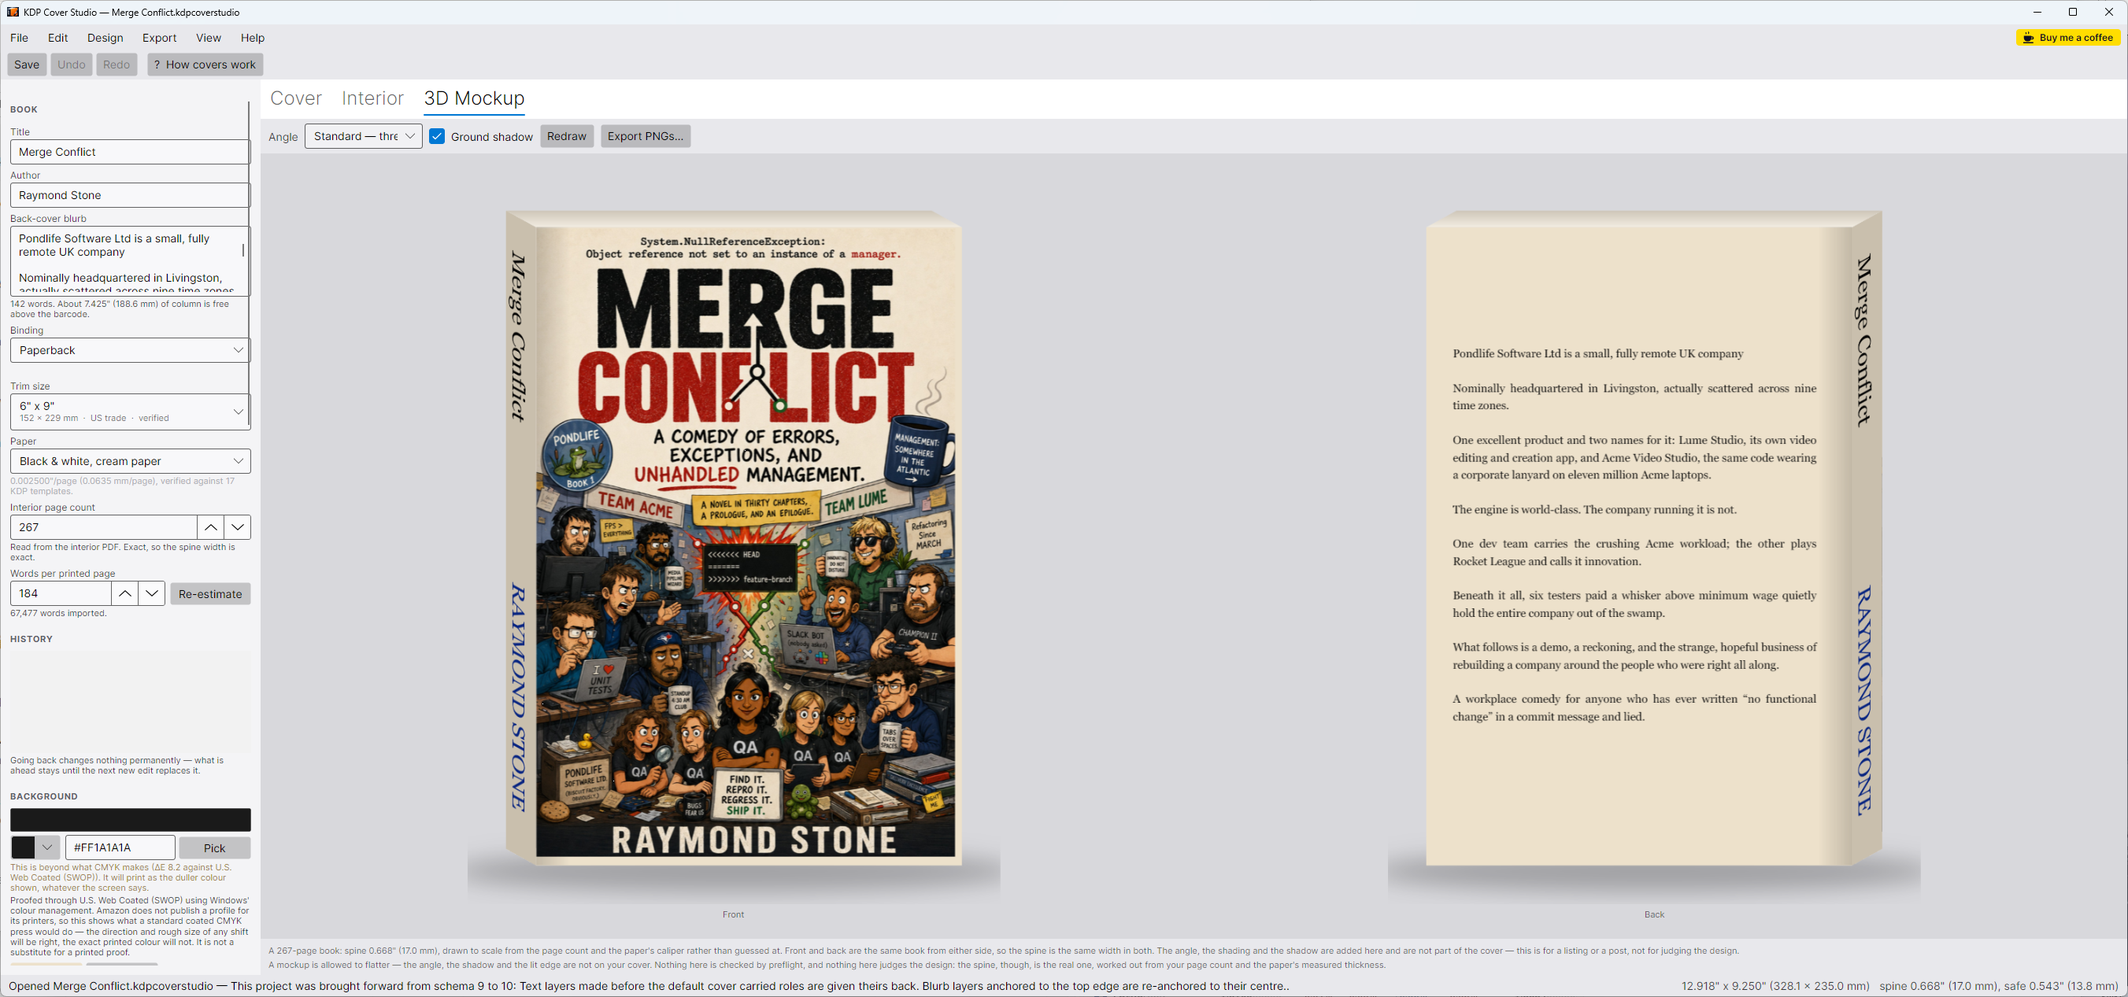
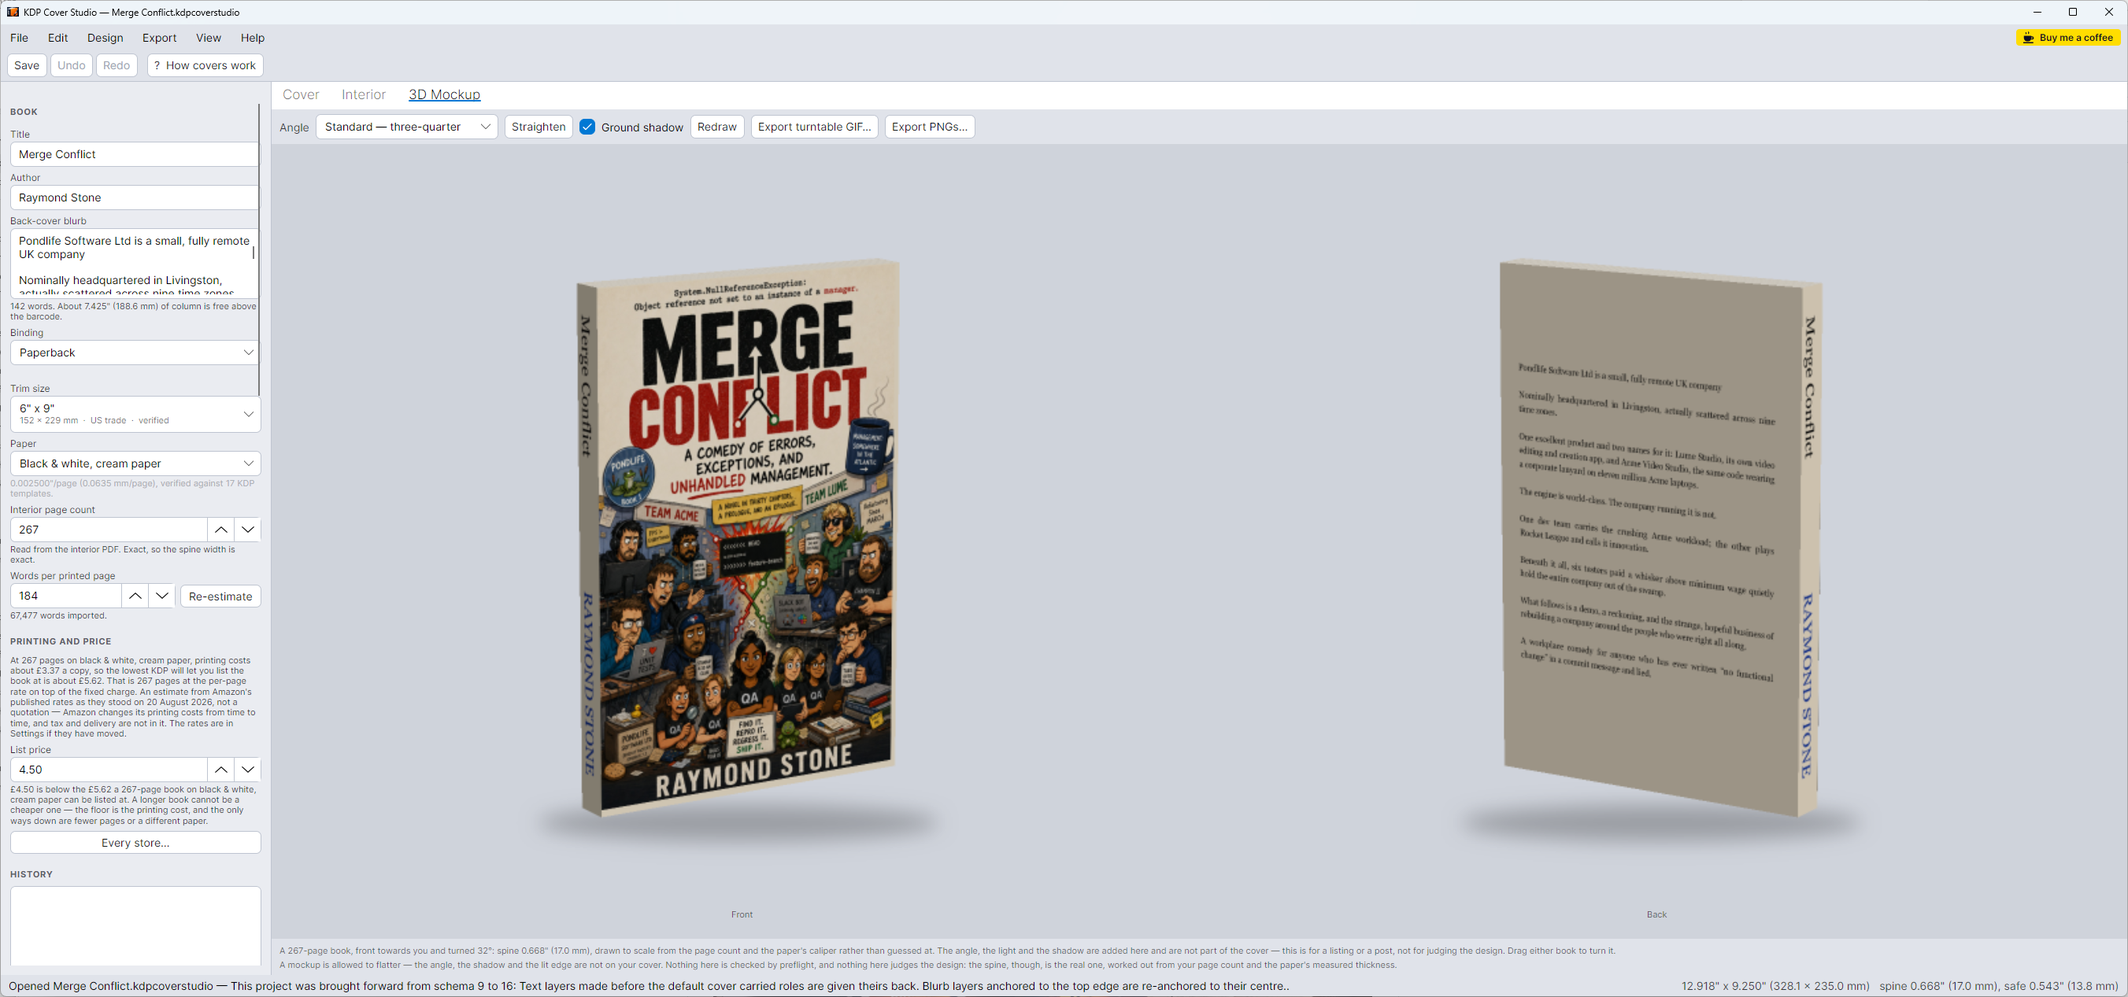
Document 1.3.4: the five it could not set, and what the book costs
1.3.3 shipped the interior with a list of what it could not set - tables,
footnotes, verse, indexes and drop caps. This release does all five, so the
README's "written for prose" limitation goes and the interior section gains
what it actually sets now: hyphenation on Knuth and Liang's patterns, a
contents with real page numbers, and a back-of-book index in two columns.

Also documented: the contact sheet, printing cost and per-store minimum list
price, the mockup as a real projection rather than a sheared transform, the
cover/interior pair check, PDF/X-1a measured clause by clause, and which
colour pairs a colour-blind reader loses.

The pricing figures are the ones the app itself reports for the 267-page
demo book, not the round numbers from the source commit, which did not
survive checking.

Screenshots refreshed at 1.3.4 - launch, editor, mockup and interior - and a
contact sheet added, all from the fictional demo book.

Verified before publishing: 2309 tests passing, 1 skipped, 0 failed, and
390/390 template assertions across 39 templates.

diff --git a/README.md b/README.md
@@ -2,6 +2,8 @@
 
 A Windows desktop app that formats a book **inside and out** — the print-ready KDP cover, with back, spine and front as a single wrap, and the book's own typeset pages — and exports the two files KDP asks for. A guided setup takes an EPUB to both.
 
+The pages are set the way a book is set: hyphenated on Knuth and Liang's patterns, with a table of contents carrying real page numbers, tables, verse, endnotes, drop caps and a back-of-book index. The spine is drawn for the page count those pages actually came to, which is the one thing a cover cannot be right without.
+
 **[Download the latest release »](https://github.com/raymondjstone/KDP-Cover-Studio/releases/latest)**
 
 ![KDP Cover Studio](docs/screenshots/00-launch.png)
@@ -108,12 +110,39 @@ Most books settle on the first pass — the default layout's own gutter is 0.75"
 
 | | |
 |---|---|
-| **Front matter** | The EPUB's own is dropped and the book gets its own, so a half-title left over from an ebook does not print. An optional **title page designer** carries the title, subtitle, author, series line, imprint and copyright page — seeded from the project, all of it editable. The app writes the year and the convention and never somebody's rights paragraph |
+| **Front matter** | The EPUB's own is dropped and the book gets its own, so a half-title left over from an ebook does not print. An optional **title page designer** carries the title, subtitle, author, series line, imprint and copyright page — seeded from the project, all of it editable, and **drawn while it is being chosen** rather than picked by reading a form. The app writes the year and the convention and never somebody's rights paragraph |
+| **A table of contents** | With the pages the chapters really start on. An EPUB's contents is a list of *links* — there are no pages in an ebook, so there are no numbers in its contents — and a printed one can only be made by something that knows what the finished pages are |
+| **Tables** | Columns decided together, and no column narrower than the widest word it holds. A cell spanning two columns is set in the column it starts in |
+| **Verse** | Kept as its own lines. The measure decides where prose lines fall, but in verse the line is the unit the poem is made of, and re-flowing it destroys the form |
+| **Notes** | An EPUB's footnotes gathered as **endnotes at the back** |
+| **An index** | A real back-of-book index from the author's own terms, with the pages they land on, **set in two columns**. The app will read the manuscript and suggest candidates — names that keep coming back — but chooses none of them |
+| **Drop caps** | A capital sunk into the first lines of a chapter. The letter is drawn separately and the lines beside it set narrower, so the wrap, the justification and the drawing all agree about how many of those there are |
+| **Full-page plates** | A picture filling three quarters of the type area gets the page, with its caption, no folio and no running head |
+| **Hyphenation** | Knuth and Liang's patterns — what TeX has set books with since 1983 — rather than a rule of thumb, because every rule of thumb is a guess at where a word breaks. The panel names the dictionary in use |
+| **Punctuation** | Straight quotes curled, `...` to an ellipsis, a hyphen doing a dash's job to a dash. Setting rather than editing: a curly quote is the same mark as a straight one. 32 of the 39 corpus EPUBs have something to set |
 | **Back matter** | An **"Also by" list**, imported from a `.txt` or `.md` file — one title per line. It belongs to the author rather than to this book, so it lives in one file and every book picks it up on the way to the printer. Markdown is stripped rather than honoured, because the interior carries no styling and the asterisks would print |
 | **Pictures** | Resolved relative to the document that names them, not to the book — matching on filename alone finds the wrong picture the moment two chapters both have a `fig1.jpg` |
 | **Type it cannot draw** | A face without a glyph is reported, and the run is drawn from a face that has it rather than printing `.notdef` |
 | **Two-page spreads** | The only way to see the faults worth seeing — a blank in an awkward place, a chapter opening on the wrong side, a heading stranded at a turn. Page one is a recto, so the first spread has nothing on its left |
 | **Deleting a page** | Subtractive rather than a re-flow, and the renumbering **turns every page after it over**: the gutter moves to the other edge and the running head changes sides. That is what happens in a real book |
+
+### Seeing the whole book
+
+![A contact sheet of the interior](docs/screenshots/11-contact-sheet.jpg)
+
+**The interior as a grid of small pages.** Reviewing a four-hundred-page book one page at a time is two hundred presses, so nobody does it — and the faults that are only visible at the scale of the *book* go to the printer: a chapter opening on a left-hand page, a blank where none was meant, a line stranded at a turn.
+
+It is laid out as spreads rather than pages, because facing pairs show at a glance which side each chapter opens on. **A blank page is drawn as a frame** rather than left as a gap, which is the most useful thing the grid shows and would otherwise be invisible. The pages are small on purpose: it is a view for the shape of the book, and type large enough to read invites proofreading instead. Findings are marked on it.
+
+**And a page at the size it prints.** The cover has been judged at 40 mm for years because that is the size a shopper sees it at; a page is read at its own size, and the pane had only ever shown one fitted to the window, which flatters the type — when the type size is exactly what somebody looking at that pane is trying to decide.
+
+| | |
+|---|---|
+| **Presets** | Eleven controls, each added because it is a decision somebody wants to make — and together a decision nobody wants to make eleven times. A preset writes them once and is not a mode |
+| **A large-print edition** | From the manuscript you already have. It is the one edition print-on-demand makes possible and a publisher's economics never allowed, and libraries buy large print steadily where they buy little else |
+| **Every trim size at once** | Trim size is the earliest decision and the worst-informed one — it settles how long the book is, how thick, what it costs to print and the lowest price it can carry, and it is picked from a dropdown of numbers that mean nothing on their own |
+| **Correcting the chapter list** | Rename or leave out what the EPUB got wrong, keyed by document rather than by position, and **never written back to the EPUB**. The alternative was to open it in another program, fix it, export it again and re-import |
+| **Findings that name a page** | "12 code lines are wider than the column and wrap" is true and unactionable against a four-hundred-page book. The page number is most of the value and clicking the row, which turns to it, is the rest |
 
 **And it can check an interior PDF, including one made elsewhere.** Page count against the cover's — judged by the fold error, which is what KDP actually refuses over — page size against trim and trim-plus-bleed, one page size throughout, the page limit for the binding and paper, and an odd page count, which KDP silences by adding a blank *after* whatever the author thought was the last page. The gutter minimum is stated rather than measured: finding the text block on a page carrying a running head, a folio and a drop cap is guesswork, and being wrong reports a good book as broken.
 
@@ -180,6 +209,8 @@ Applying a template is a re-placement, not a copy: every layer is repositioned r
 
 **A gradient fade into a second colour costs nothing**, because a colour filter changes no alpha — unlike a **drop shadow**, which is translucent and therefore costs its own layer at export. The properties panel says which is which.
 
+**Capitals are a setting on the layer, not a change to the words.** Every text layer — front cover, spine, blurb, series line — can be set *As typed*, *UPPERCASE* or *Mixed case*. The decision is typographic and the words are not: the same title goes to the spine, the shop listing, the metadata and the interior's title page in ordinary case, and typing it in capitals writes the shouting into the data.
+
 **Match one text layer's look to another** rather than inventing a fourth way to name a style. **Spine sections** let you place type in a third of the spine — and the thirds are thirds of the *safe* length, not the spine, because thirds of the spine run into the trim.
 
 ### Type over artwork, done properly
@@ -240,7 +271,11 @@ A **palette** travels with the document rather than living in settings — it is
 
 A pane showing the **front panel, trimmed, at about 40 mm** — the size a shop actually shows a cover, and the size at which you should judge it. Trimmed rather than with bleed, because the bleed is guillotined off before anybody sees it and including it flatters the design. It renders through the same exporter as the print file, so it cannot show you something kinder than what prints.
 
-**Whether the title survives shop size is measured, not eyeballed** — contrast against what is actually behind the type, at the size it will be seen. Where the two colours are plainly different and the contrast is short, the finding says **it is the colour holding the type apart, not the lightness**: a vivid red title on a vivid green ground reads perfectly well in colour and is lost on a Kindle's e-ink screen and in anything printed in black and white. Reported at 1.1:1 with no reason given, that reads as the app being broken. And **two covers can be put side by side** at that size, which is the only way to judge a series as a series.
+**Whether the title survives shop size is measured, not eyeballed** — contrast against what is actually behind the type, at the size it will be seen. Where the two colours are plainly different and the contrast is short, the finding says **it is the colour holding the type apart, not the lightness**: a vivid red title on a vivid green ground reads perfectly well in colour and is lost on a Kindle's e-ink screen and in anything printed in black and white. Reported at 1.1:1 with no reason given, that reads as the app being broken.
+
+The same finding says **which pairs a colour-blind reader loses as well**, as a clause rather than a second check — luminance contrast survives every inherited colour vision deficiency intact, so anything readable in greyscale is readable to a colour-blind reader, and a separate finding could only ever repeat the greyscale one. Measuring it disproved the premise it was started on: "red and green" is the folk description and is not what collapses — a saturated red and a mid green of matching luminance come through the Viénot simulation about sixty ΔE apart, because a dichromat's own luminance weighting separates them where Rec. 709 does not. What actually collapses is **adjacent hues** — red against orange, crimson against amber, blue against violet — which is exactly what a warm or a cool palette reaches for. Twenty-six pairs out of 46,656 across the sRGB cube.
+
+And **two covers can be put side by side** at that size, which is the only way to judge a series as a series.
 
 ### Live preflight
 
@@ -284,9 +319,18 @@ Transparency is flattened **without losing the type**. Rasterising the whole cov
 
 **Everything, in one press** — every output the cover produces, into one folder. A layer error refuses only the outputs that show that layer, rather than the whole batch.
 
-**A 3D mockup PNG** for a listing or a post — now of **both sides of the book**. The back is the one carrying the blurb and the barcode, and it was the one thing here nothing had ever drawn as an object. It is drawn rather than flipped, because a horizontal flip would print the blurb backwards; what changes is which panel stands upright and which way the spine is sheared. Both are shown side by side, at one height, and written from one file dialog — a second dialog is the step at which one of a pair ends up in a different folder.
+**A 3D mockup PNG** for a listing or a post, of **both sides of the book** — the back being the one that carries the blurb and the barcode. It is drawn rather than flipped, because a horizontal flip would print the blurb backwards. Both are written from one file dialog, since a second dialog is the step at which one of a pair ends up in a different folder.
 
-It is the one renderer allowed to flatter, so nothing that judges the design is permitted to read it.
+The mockup is **a real projection**: six textured faces of a box in space, turned by yaw and pitch, projected through a camera at six and a half book-heights and lit per face — and you can drag it. It used to be two faces sheared into place by an affine transform, which is a camera at infinity, and the three named angles were very nearly the same picture: each foreshortened the *spine* while drawing the front cover at its full width, so the whole visible difference between "front on" and "well turned" was a few pixels. The book never actually turned.
+
+From the same renderer:
+
+- **The series standing together** — five spines in a row with the design carrying across them. Each volume takes its depth from its own page count and the paper's measured caliper, so a 180-page book beside a 600-page one looks like what it is. That is the thing no mockup generator on the internet gets right, because none of them knows how many pages a volume has.
+- **A turntable, as a looping GIF.** The viewer helps somebody pick an angle; the turntable is the shot that performs on a post.
+- **Quote cards** — a passage set on the book's own colours and typeface, with the title and author exactly as printed. Made in a graphics program it drifts from the cover within a book or two, and a card that *nearly* matches is worse than one that plainly does not.
+- **The square cover an audiobook listing needs**, from artwork the app is already holding, rather than cropping in a graphics program until the author's name is off the bottom. What a crop would cut is named before the file dialog opens.
+
+These are the renderers allowed to flatter, so nothing that judges the design is permitted to read them.
 
 ![3D mockup render, front and back](docs/screenshots/07-mockup.png)
 
@@ -295,6 +339,20 @@ It is the one renderer allowed to flatter, so nothing that judges the design is 
 **Proof checklist** — written for a **bound** copy, which is what KDP sends. Half the useful measurements only exist once the thing is folded.
 
 **And it can check a cover PDF, including one this app did not make.** It recovers the page count the cover was drawn for by solving back through the geometry, and leads with the fold error, which is exact. The recovered count cannot be: one page of B&W white is 0.162 pt of spine, KDP rounds its declared page size to whole points and the writer quantises it again — so it says "about 310 pages (within 2)" rather than inventing precision. **An interior PDF can be checked too**, and that is the stronger half of the same question, because an interior states its page count instead of having it recovered.
+
+**And the two files are checked against each other.** Each file's own check compared it against the *project's* page count — so when that number was the thing that was wrong, which is the usual case, both files were judged against the same wrong reference and both came back clean: two green reports and a refused upload. The pair check makes the comparison KDP makes. A PDF can also be **measured against PDF/X-1a clause by clause**, which says what would have to change rather than assuming the answer.
+
+### What it costs to print, and what it earns
+
+All of this otherwise lands at the publishing form, by which point the book is written and the cover is drawn.
+
+Printing cost is a fixed charge plus a charge **per page**, and the page count is the one number this app is unusually confident about — measured off the interior it has just set, or read out of the PDF, rather than guessed. Everything about the money follows from it.
+
+**The one that catches people is the minimum list price.** KDP will not let a book be sold below its floor, and that floor is a different number in every store because the printing cost is. A 267-page black-and-white paperback costs £3.37 to print for Amazon.co.uk and $4.05 for Amazon.com, so the lowest it can be listed at is £5.62 and $6.75 respectively. A price that clears the floor at home can therefore be refused in the store where most of the copies sell.
+
+The app shows what the book earns in each of Amazon's stores — separate floors, separate prices, **nothing converted**, because a price is set separately in each store and a converted one is not what anybody is charged. The rates are an estimate from Amazon's published figures, carrying the date they were read.
+
+**KDP's own publishing form can be answered from the project**, with the two files checked against each other first. The description field is not a text box: it accepts a small subset of HTML, counts its 4,000 characters *including* the markup, and discards what falls outside — so the blurb is turned into the markup that field actually wants.
 
 ### Your work is kept safe
 
@@ -335,14 +393,16 @@ Projects are saved as `.kdpcoverstudio` — a ZIP holding the document plus a co
 
 ## Current release
 
-**Version 1.3.3** — `KDPCoverStudio.msi`, 53.6 MB. See the [release notes](https://github.com/raymondjstone/KDP-Cover-Studio/releases/latest) for what changed.
+**Version 1.3.4** — `KDPCoverStudio.msi`, 53.7 MB. See the [release notes](https://github.com/raymondjstone/KDP-Cover-Studio/releases/latest) for what changed.
 
-Verified at build: **1741 tests** (1740 passing, one skipped) and **390/390 template assertions across 39 templates**.
+Verified at build: **2310 tests** (2309 passing, one skipped) and **390/390 template assertions across 39 templates**.
 
 ### Known limitations
 
-- **The interior formatter is written for prose.** Tables, footnotes, verse, indexes and drop caps are not in it. Each is real work and none of them is a novel.
-- **The exported PDFs are plain PDF, not PDF/X-1a.** KDP says PDF/X "preferred" and accepts plain PDF, which is first on its own list of formats; PDF/X needs an output intent and CMYK the renderer will not write. Fonts are embedded as subsets, which is the same class of recommendation.
+- **Footnotes are gathered as endnotes**, not set at the foot of their own page. That is the gutter's fixed point again in a place where it does not converge tidily — reserving room on a page for the notes that fall on it changes which notes fall on it — and it is named rather than quietly approximated.
+- **Indexes need the author's own terms.** The app suggests candidates and sets the result, but an EPUB carries no index markup and a machine that chose the terms itself would produce a concordance.
+- **A cell spanning two columns is set in the column it starts in.** Tables are otherwise set with their columns.
+- **The exported PDFs are plain PDF, not PDF/X-1a.** KDP says PDF/X "preferred" and accepts plain PDF, which is first on its own list of formats; PDF/X-1a needs every colour in CMYK, greyscale or a named spot, and the renderer writes DeviceRGB with no switch to change it. The app now **measures a PDF against the standard clause by clause** and says which one fails, rather than assuming. Fonts are embedded as subsets, which is the same class of recommendation.
 - **The soft proof is a standard SWOP profile, not Amazon's press.** Amazon publishes no ICC profile for its printers, so the closest honest answer is a standard coated CMYK profile — which is what every string the feature produces names. A better profile dropped into Windows' colour folder is picked up without a code change.
 - **Two hardcover figures where Amazon's prose disagrees with Amazon's artwork**, recorded rather than resolved: the safe area (16 mm stated, 18.2 mm measured) and the barcode inset (19 mm stated, 0.25" above the safe area measured). The app follows the artwork, which is what gets printed.
 - **The prose-only rules are transcribed, not derived.** Page-count limits, Expanded Distribution eligibility and the minimum type size come from Amazon's help pages rather than from the templates, so nothing here would notice Amazon changing them. Each carries the date it was checked and a link to its source.
